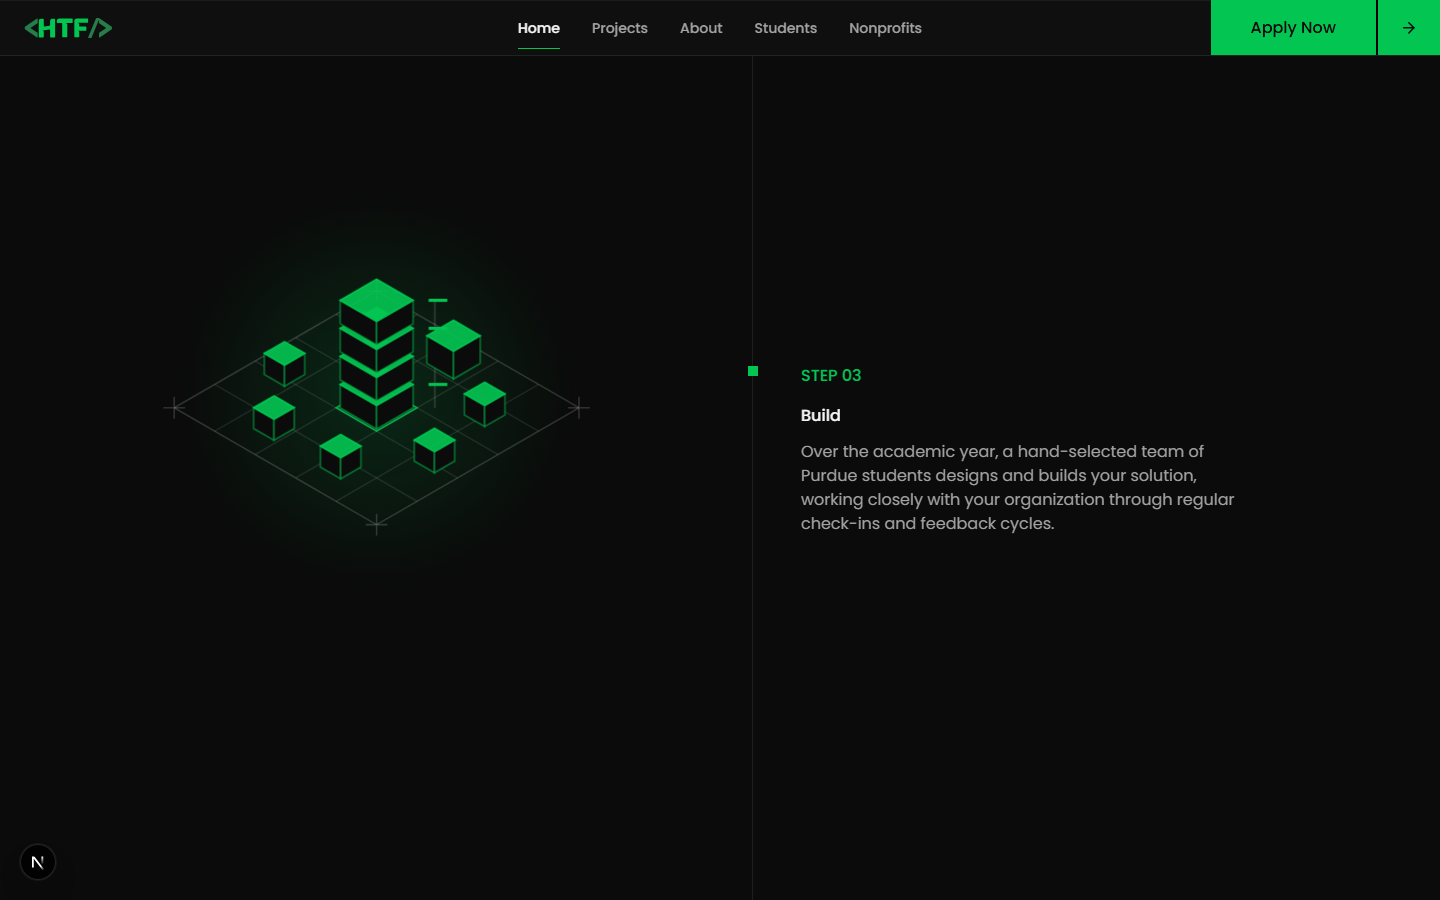
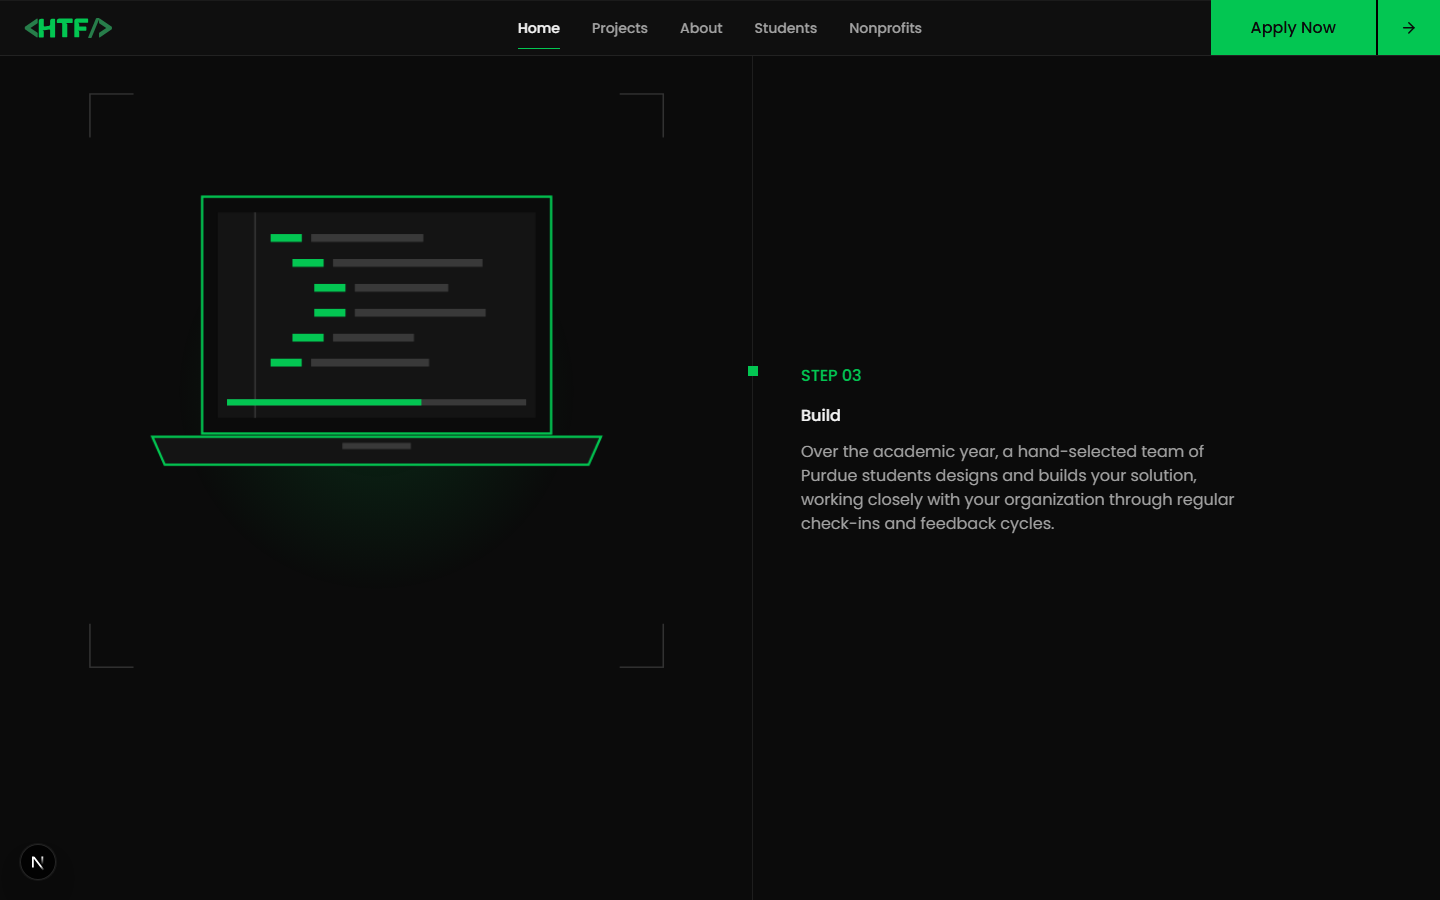
docs: session 10 audit 4 log, plan section 17, CLAUDE.md map, screenshots
Claude-Session: https://claude.ai/code/session_011Bwqbz1xrnbmBZhafCKopb

Changed region(s): [[0.0938, 0.2489, 0.4062, 0.5289], [0.375, 0.2178, 0.4062, 0.2489], [0.125, 0.2178, 0.1562, 0.2489]]

diff --git a/docs/PROGRESS.md b/docs/PROGRESS.md
@@ -34,6 +34,7 @@ this file. Checklist items follow the plan's phases (PLAN.md §6, §9).
 - [x] Session 5: home + global audit pass (square corners, glass surfaces, one hover language, nav/footer changes with the pixel dinosaur, statement hero, What we do, scroll-driven process, Impact with count-up tiles / testimonial marquee / awards, Who we serve before the FAQ)
 - [x] Session 8b: home + global audit 2 (Home tab and centred nav, green bar CTA, `nonprofits` spelling, What we do reflow, one scroll-morphing process scene, Impact map backdrop, awards and caption cleanup, Who we serve cards, beacon graphic, footer, green inline links)
 - [x] Session 10: home audit 3 (full-bleed hairline rows, centred projects button, the isometric process scene with no counter under it, Impact map lower, 2px divider and green arrow cell on every primary button, plain Who we serve panels, the docking graphic in Get involved)
+- [x] Session 10, audit 4: framed rows, recognizable process pictures (form, team, laptop, rocket), wider marquee fade, "Learn more" buttons and the project-card hover on Who we serve, the paper plane in Get involved
 
 ### Phase 3 — Depth (Session 6, pulled ahead of the portal)
 
@@ -70,6 +71,15 @@ beacon, and every primary button is now the bar's green-on-green treatment, so l
 Commits: `feat(home): audit pass 3 …` and `docs: session 10 …`. Not pushed. A second Claude
 session (`htf-64`) reworked the project cards in the same working tree at the same time; each
 session committed only its own files.
+
+**Audit 4, later the same session** (PLAN.md §17), five items: vertical rails on the outer
+edges of the full-bleed rows (What we do and Who we serve); the process scene redone once
+more as recognizable pictures, the intake form under a magnifying glass, the team, a laptop
+with code typing itself in, a rocket, cross-fading with scroll; a wider fade at both ends of
+the testimonial marquee; Who we serve panels with a "Learn more" split button and the project
+cards' hover (green title, the button in its hover state); and a paper plane on a dotted
+flight path in Get involved in place of the docking modules. Commits: `feat(home): audit pass
+4 …` and `docs: session 10, audit 4 …`.
 
 **Verified:** `pnpm typecheck`, `pnpm lint`, Prettier on the changed files, `pnpm build`.
 `pnpm a11y` on the dev server (`/`, `/nonprofits`, `/about` at 1440 and 390, plus the
@@ -124,6 +134,31 @@ transparent 100%)`, so the top edge is fully faded and the whole map sits lower.
    `scan` is new; `ping`, `draw`, `float`, `eyelid` stay.
 9. Project cards (the other session, per Ashton): they no longer use `hover-corners`; their
    hover is a green border and rule, the cover brightening, a green title and the arrow fill.
+10. Audit 4, rows: `md:first:border-l` joins `md:border-r` on every row item, so the outer
+    columns are framed by rails; phones keep the stacked full-width hairlines only.
+11. Audit 4, process scene: each step is a picture component on the same 400 viewBox stage
+    (`FormPicture`, `TeamPicture`, `LaptopPicture`, `RocketPicture`), placed by `sceneAt`:
+    opacity full within ±0.2 of the step and gone at ±0.7, the outgoing picture rising 36px
+    and scaling to 0.92 while the next comes up from below. Per-picture animations run only
+    while a picture is active (`data-active`): the magnifier glides (`magnify`), the check
+    draws, avatars pop in (`pop`), code rows type in (`type`) with a blinking cursor, the
+    flame flickers (`flame`) and the trail streams (`trail`). The animation classes are only
+    applied on the live scene, so the stills show everything complete. Stage names in
+    `content/process.ts`: `form`, `team`, `laptop`, `rocket`. The `scan` keyframes are gone.
+12. Audit 4, marquee: `--marquee-fade: clamp(4rem, 12vw, 14rem)` on `.marquee` and the mask
+    reads it on both sides (the old 6% was 86px at 1440 and read as a hard cut).
+13. Audit 4, Who we serve: `SplitButton` gained `presentational` (a span with the button's
+    classes, `group-hover:border-green` on the secondary variant) for a button inside a card
+    that is itself the link; the panel link is a `group`, its title `group-hover:text-green`,
+    and `hover-corners` / the surface change are gone from these panels.
+14. Audit 4, Get involved: `PaperPlaneGraphic` (client). The plane's nose is at its local
+    origin so `offset-path` (the flight curve, duplicated in globals.css) with `offset-rotate:
+auto` makes it ride and turn with the path; `.anim-fly` rests at `offset-distance: 100%`
+    and the `fly` keyframes run once when `data-active` flips on view. `[data-active=false]`
+    parks it at 0% so the flight starts from where it sits. Browsers without motion paths get
+    a static transform to the end of the path. The dotted path's dashes drift (`dots`), wind
+    strokes fade in after the flight, the float and the pointer tilt stay. Reduced motion:
+    resting at the end, no flight.
 
 **Known gaps**
 
@@ -136,9 +171,8 @@ transparent 100%)`, so the top edge is fully faded and the whole map sits lower.
 
 **TODOs for Ashton**
 
-- Scroll the home page in a real browser: the scene's timing constants are the `seg(...)`
-  windows in `sceneAt` (`ProcessScene.tsx`); the docking timing is the `t(...)` calls in
-  `ConnectGraphic.tsx`.
+- Scroll the home page in a real browser: the cross-fade window is the `0.2 / 0.5` pair in
+  `sceneAt` (`ProcessScene.tsx`); the flight takes 2.6s (`.anim-fly` in globals.css).
 - Everything from earlier sessions still stands (stats, testimonials, photos, LinkedIn URL,
   wording confirmations).
 

diff --git a/CLAUDE.md b/CLAUDE.md
@@ -48,13 +48,14 @@ src/components/
   ui/               primitives: Eyebrow, Headline, SplitButton, Section, Card, Accordion,
                     StatTile (+ CountUp), TestimonialCard, Chip, Field, Media, DottedMap
   layout/           SiteHeader, NavDrawer, NavLinks, SiteFooter, PageHero, JumpLinks,
-                    FaqSection, ContactCta (+ ConnectGraphic: two modules docking on view),
-                    SeasonNote, OnThisPage
+                    FaqSection, ContactCta (+ PaperPlaneGraphic: a paper plane flying its
+                    dotted path on view), SeasonNote, OnThisPage
   home/             Hero, Globe (SVG, takes pins), WhatWeDo, Process (+ ProcessScroll,
-                    ProcessScene: one isometric scene that builds through the steps on
-                    scroll; also the stills on /nonprofits), ImpactBand (+ TestimonialMarquee,
-                    Awards, AwardCarousel), WhoWeServe (two panels in a full-bleed row; also
-                    the hand-off on /about)
+                    ProcessScene: one stage whose recognizable pictures (form, team, laptop,
+                    rocket) cross-fade with scroll; also the stills on /nonprofits),
+                    ImpactBand (+ TestimonialMarquee, Awards, AwardCarousel), WhoWeServe (two
+                    linked panels with a presentational "Learn more" button in a full-bleed
+                    row; also the hand-off on /about)
   about/            Mission, Story, ExecGrid, InstagramGrid
   nonprofits/       HowItWorks, Scope, Partners (+ PartnersMap), NonprofitTestimonials,
                     IntakeForm
@@ -137,7 +138,8 @@ Path aliases: `@/*` → `src/*`, `@content/*` → `content/*`.
   (crosshairs at the corners of framed containers). Other utilities: `container-x` (reads
   `--gutter`), `container-max`, `bleed-row-2` / `bleed-row-3` (a full-bleed hairline row
   whose columns stay on the container's columns: `grid md:bleed-row-3`, first item
-  `md:first:col-start-2`, items padded `px-(--gutter)`), `grid-overlay`, `ghost-text`,
+  `md:first:col-start-2 md:first:border-l`, every item `md:border-r`, items padded
+  `px-(--gutter)`), `grid-overlay`, `ghost-text`,
   `skip-link`, `marquee` / `marquee-track`.
 - Contrast (checked, WCAG AA): text/muted/green/mint/cyan on bg, surface and surface-2 all
   pass; dark text on green (8.6:1) and on lime (16.6:1) pass; white on green FAILS (never);
@@ -156,7 +158,8 @@ Path aliases: `@/*` → `src/*`, `@content/*` → `content/*`.
   native hints) and the server action; `useFormSubmission` handles both modes;
   delivery goes through `src/lib/forms/deliver.ts`. Every list renders `li` as the direct
   child of `ul`/`ol` (put `Reveal` inside the `li`).
-- Every CTA is a `SplitButton` (primary: green label, green arrow cell, 2px black divider);
+- Every CTA is a `SplitButton` (primary: green label, green arrow cell, 2px black divider;
+  `presentational` renders a span for a button inside a card that is itself the link);
   every section label is an `Eyebrow`; every heading with a green accent is a `Headline`
   (`*word*` marks the accent).
 - Portal: every page and server action under `/apply` and `/admin` goes through

diff --git a/docs/PLAN.md b/docs/PLAN.md
@@ -238,3 +238,19 @@ Ashton's third audit of the built home page; PROGRESS.md (Session 10) has the de
 **Who we serve** is two plain panels: eyebrow, title, one sentence, a label and the arrow cell. The index numerals, icon boxes, spec rows, glow and hover grid are gone.
 
 **Get involved** has a new graphic in place of the beacon: two modules, one per audience, that dock into one unit when the section scrolls into view (`ConnectGraphic`), with the seam lighting up and the HTF mark pinging above it.
+
+---
+
+## 17. Amendments — home audit 4 (September 7, 2026)
+
+Ashton's fourth audit of the built home page, the same day as §16; PROGRESS.md (Session 10, audit 4) has the details.
+
+**Rows are framed.** The full-bleed rows of §16 gain vertical rails on their outer edges, so the three service panels and the two audience panels each sit in a framed cell while the horizontal lines still run edge to edge.
+
+**How it works shows recognizable pictures.** The isometric build of §16 is gone. `ProcessScene` now draws one picture per step in the site's wireframe style: the intake form under a magnifying glass (discover), the team of avatars with the lead in front (match), a laptop with code typing itself in (build) and a rocket (deliver). Scroll progress cross-fades them, the outgoing picture rising as the next comes up, so the scene is still one continuous object; the Nonprofits page still shows the four stills. `content/process.ts` names the pictures (`form`, `team`, `laptop`, `rocket`).
+
+**Testimonials fade at both ends.** The marquee's mask fades the cards out over `clamp(4rem, 12vw, 14rem)` on each side instead of a 6% sliver.
+
+**Who we serve.** Each panel is still one link, but the label-and-arrow footer is a normal "Learn more" split button (a presentational span inside the link), and the hover is the project cards' language: the title turns green and the button takes its hover state. No corner brackets, no surface change.
+
+**Get involved** has a paper plane in place of the docking modules: a dotted flight path with drifting dots, and the plane flies it once (CSS motion path) when the section scrolls into view, then rests at the end with a few wind strokes behind it.
